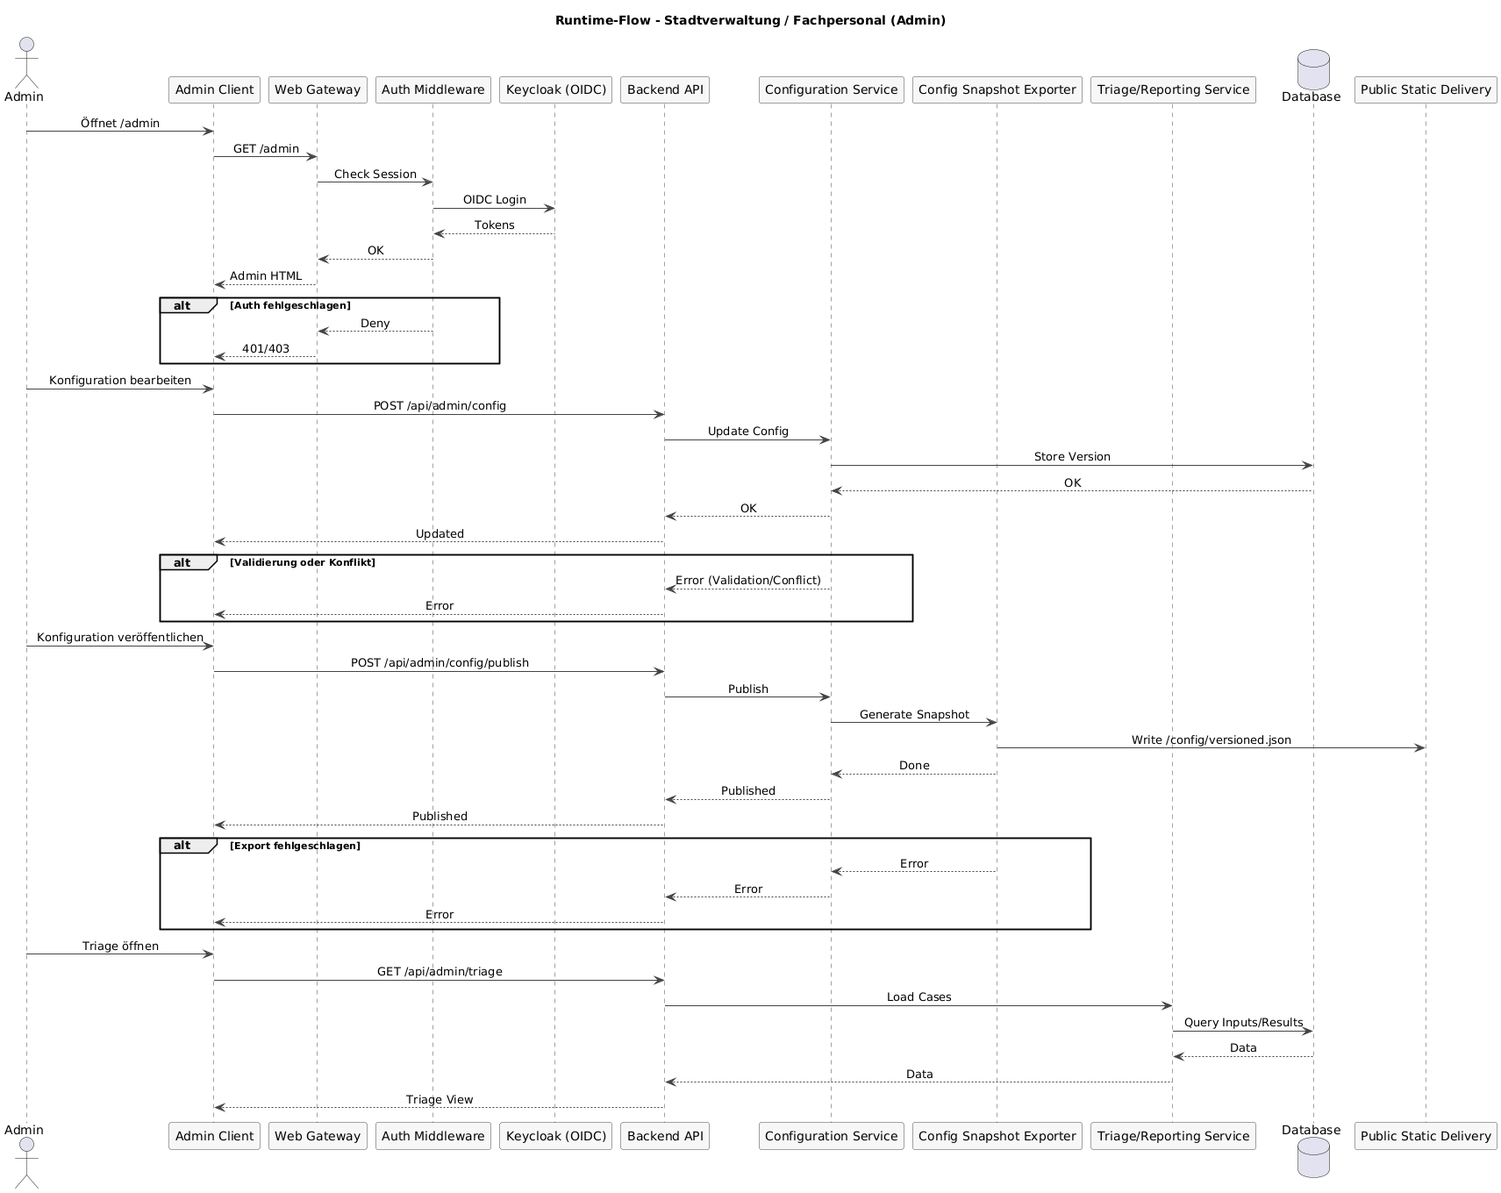
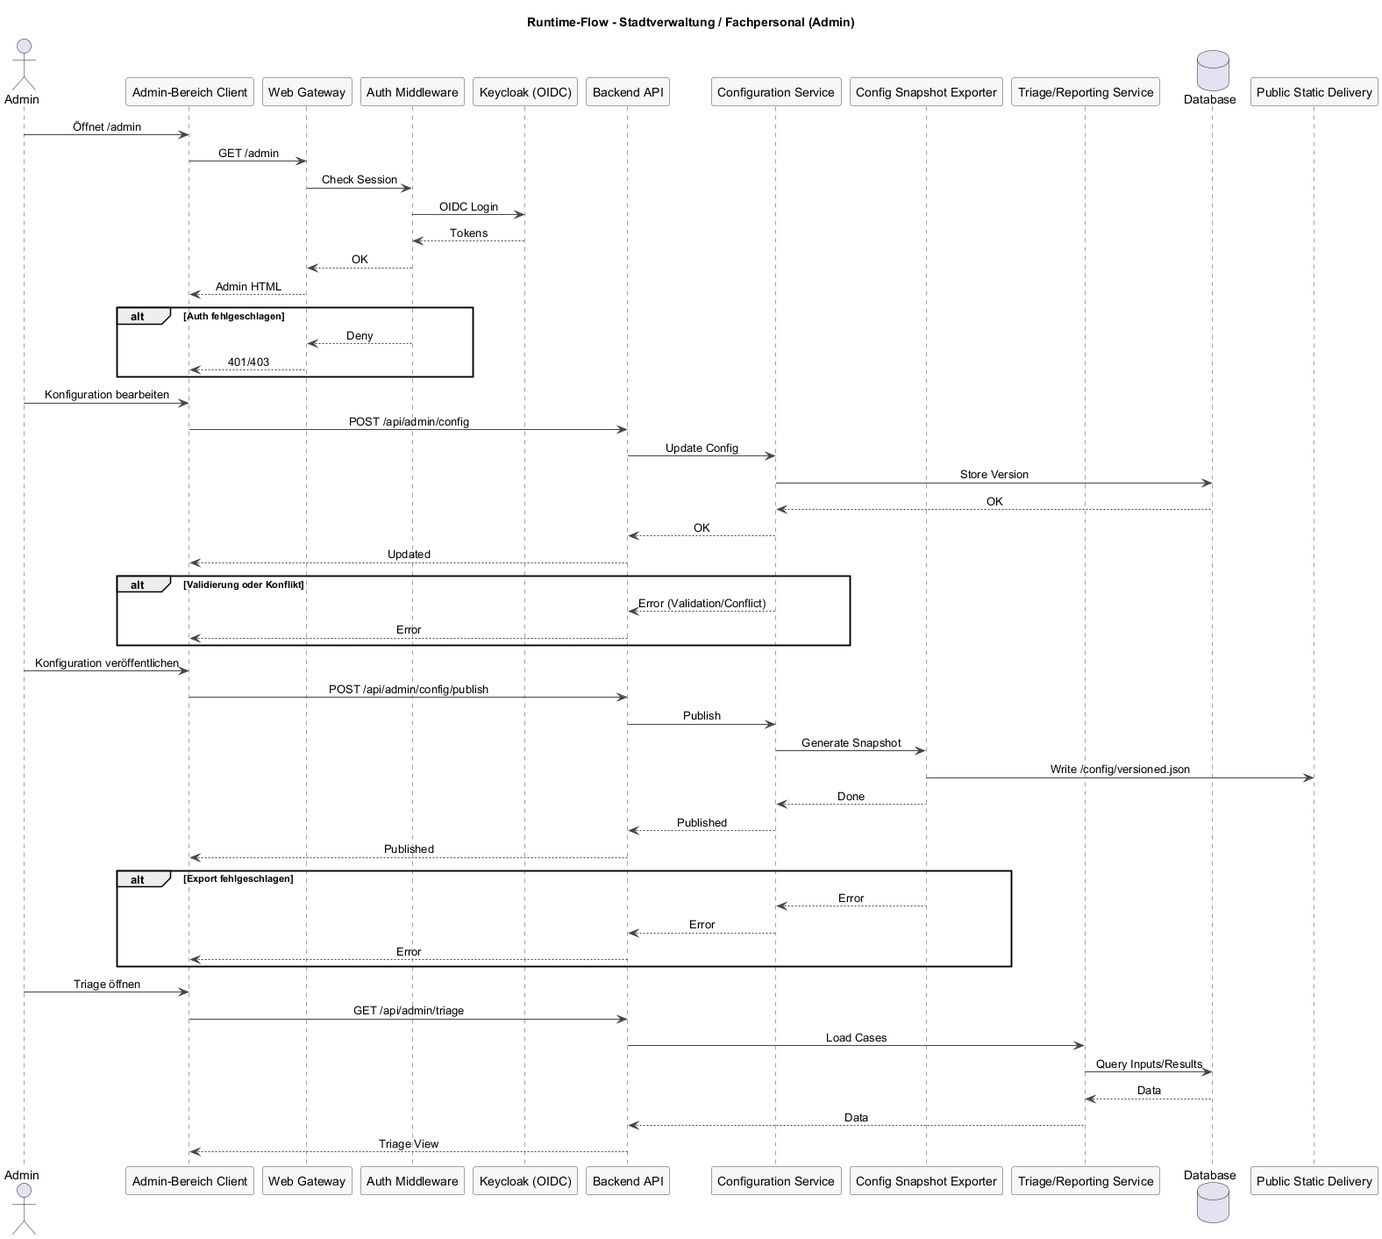
removed mentions of step model input; changed admin ui references to admin area; general clean-up

diff --git a/docs/requirements/03-technical-requirements.md b/docs/requirements/03-technical-requirements.md
@@ -46,10 +46,10 @@ Zur Laufzeit darf keine serverseitige Renderlogik erforderlich sein.
 Das Frontend muss mindestens zwei klar getrennte UI-Bereiche bereitstellen:
 
 - einen öffentlichen Bürger-Client
-- eine administrative Oberfläche für Stadtverwaltung / Fachpersonal
+- einen administrativen Bereich für Stadtverwaltung / Fachpersonal
 
 **TA-09**  
-Der HTML-Code der administrativen Oberfläche darf erst nach erfolgreicher Authentifizierung ausgeliefert werden.
+Der HTML-Code des administrativen Bereichs darf erst nach erfolgreicher Authentifizierung ausgeliefert werden.
 
 ---
 
@@ -360,7 +360,7 @@ Der Consent-Status (Datenschutz/Cookies) muss als technische Voraussetzung für 
 Jeder Nutzerdatensatz muss einen Status tragen (neu, in Prüfung, freigegeben, unplausibel) und die Statusänderung muss mit Zeitstempel und Benutzerkennung im Audit-Log protokolliert werden.
 
 **TA-82**  
-Die Admin-UI muss eine gruppierte Ansicht pro Gebäude bereitstellen, inkl. Vergleich mehrerer Datensätze.
+Der Admin-Bereich muss eine gruppierte Ansicht pro Gebäude bereitstellen, inkl. Vergleich mehrerer Datensätze.
 
 **TA-83**  
 Exporte für Verwaltung/Wärmeplanung müssen mindestens als JSON und CSV bereitgestellt werden und Filterkriterien berücksichtigen.
@@ -381,17 +381,19 @@ Am oberen Ende des Spektrums muessen Szenario-Berechnungen fuer Einzelmassnahmen
 **TA-87**  
 Live-Ergebnisse sollen nach Eingabeänderungen ohne expliziten Berechnungs-Button aktualisiert werden; die Reaktionszeit muss für interaktive Nutzung geeignet sein.
 
-### Input-Matrix (Referenzpunkte im Spektrum)
+### Eingabefelder entlang des Spektrums
 
-| Referenzpunkt | Pflichtangaben                                        | Optionale Angaben                                                                                                                                            |
-| ----- | ----------------------------------------------------- | ------------------------------------------------------------------------------------------------------------------------------------------------------------ |
-| Minimum     | keine                                                 | keine                                                                                                                                                        |
-| Niedrig     | Baujahr                                               | Energietraeger, Jahresverbrauch oder Kosten, Warmwasser elektrisch (Ja/Nein), Personenanzahl (Klassen)                                                        |
-| Mittel      | Bauteilzustaende je Dach/Aussenwand/Fenster/Kellerdecke | Lueftungsart, Heizflaechenart, Erzeugerart, Baujahre je Bauteil                                                                                                |
-| Hoch        | Ueberschreiben von Defaults je Bauteil                 | Daemmung ja/nein, Sanierungsjahr, Verglasungsart/Rahmen, Luftdichtheit, Vorlauftemperatur, Erzeugerleistung, Umwaelzpumpe, Regelprinzip, technische Ausfuehrung |
-| Maximum     | Auswahl Sanierungsmassnahmen                           | Kombinationen, Budget, Foerderlogik (optional)                                                                                                                |
+| Eingabebereich | Pflichtangaben | Optionale Angaben |
+| ----- | ----- | ----- |
+| Ohne Nutzereingabe | keine | keine |
+| Grundangaben | Baujahr | Energietraeger, Jahresverbrauch oder Kosten, Warmwasser elektrisch (Ja/Nein), Personenanzahl (Klassen) |
+| Bauteile und Anlage | Bauteilzustaende je Dach/Aussenwand/Fenster/Kellerdecke | Heizflaechenart, Erzeugerart, Baujahre je Bauteil |
+| Detaillierung | keine zusaetzlichen globalen Pflichtangaben | Ueberschreiben von Defaults je Bauteil, Daemmung ja/nein, Sanierungsjahr, Verglasungsart/Rahmen, Vorlauftemperatur, Erzeugerleistung, Umwaelzpumpe, Regelprinzip, technische Ausfuehrung |
+| Szenarien und Kombinationen | Auswahl mindestens einer Sanierungsmassnahme | Kombinationen, Budget, Foerderlogik (optional) |
 
-Hinweis: Eingaben sind als automatisch/manuell/geschätzt zu markieren; Validierungen erfolgen stufenspezifisch.
+Hinweis: Die genannten Eingaben bilden keine festen Stufen. Sie koennen entlang eines kontinuierlichen Spektrums bedarfsorientiert kombiniert werden.
+Hinweis: Luftdichtheit wird nicht direkt durch Nutzer eingegeben, sondern aus allgemeinen Annahmen (Katalogwerte und Baualter) referenziert.
+Hinweis: Eingaben sind als automatisch/manuell/geschätzt zu markieren; Validierungen erfolgen eingabetiefenspezifisch.
 
 ---
 
@@ -401,7 +403,7 @@ Hinweis: Eingaben sind als automatisch/manuell/geschätzt zu markieren; Validier
 Die Eingabemaske muss die Heizungsregelung als auswählbare Kategorie unterstützen (Raumtemperaturregelung, witterungsgeführte Regelung, Differenzregelung).
 
 **TA-89**  
-Bei hoeherem Eingabegrad muessen optionale Anlagenparameter aufgenommen werden koennen (Vorlauftemperatur, Erzeugerleistung, Umwaelzpumpe, Heizflaechen, Regelprinzip, technische Ausfuehrung).
+Mit zunehmender manueller Eingabetiefe muessen optionale Anlagenparameter aufgenommen werden koennen (Vorlauftemperatur, Erzeugerleistung, Umwaelzpumpe, Heizflaechen, Regelprinzip, technische Ausfuehrung).
 
 ---
 

diff --git a/docs/system/02-user-journey-ux.md b/docs/system/02-user-journey-ux.md
@@ -62,7 +62,7 @@ Herr Meier ist Vermieter eines Mehrfamilienhauses aus den 1970er Jahren. Die Hei
 ## Chancen und UX-Ansätze
 
 - Niederschwelliger Einstieg mit klarer „So funktioniert’s“-Erklärung.
-- Sichtbare Sofortergebnisse (Einsparungen) in der Basisstufe.
+- Sichtbare Sofortergebnisse (Einsparungen) bereits ohne oder mit wenigen manuellen Eingaben.
 - Kennzeichnung der Datenherkunft: automatisch, manuell, geschätzt.
 - Priorisierung der wichtigsten Daten, reduzierte Komplexität.
 - Empfehlung „beste Maßnahme für Budget X“.
@@ -75,19 +75,18 @@ Herr Meier ist Vermieter eines Mehrfamilienhauses aus den 1970er Jahren. Die Hei
 ## Eingabetiefe (fachliche UX-Sicht)
 
 Die Eingaben bewegen sich auf einem kontinuierlichen Spektrum von "keine Nutzereingabe" bis
-"vollstaendig durch Nutzer definiert". Zur Orientierung koennen Referenzpunkte dienen:
-Minimum (ohne Nutzereingaben): Vorbelegung auf Basis LOD2, Baualtersklasse und Standardannahmen, damit keine „leere Huelle“ entsteht.  
-Niedrig (Quick-Start): Wenige Eingaben (z.B. Baujahr als Pflichtfeld), schnelle Ergebnisse/Benchmark.  
-Mittel (Verbesserung): Bauteil- und Anlagenebene, Zustaende je Bauteil, Lueftungsart abfragbar.  
-Hoch (Expertenmodus): Ueberschreiben von Defaults (z.B. Daemmung, Fensterdetails), detaillierte Eingaben.  
-Maximum (Sanierungsszenarien): Auswahl von Einzelmassnahmen oder Kombinationen, Ergebnisvergleich vorher/nachher.
+"vollstaendig durch Nutzer definiert". Es gibt keine festen Stufen:
+- Ohne Nutzereingabe werden Werte auf Basis von LOD2, Baualtersklasse und Standardannahmen vorbelegt.
+- Mit jeder zusaetzlichen manuellen Eingabe werden die Ergebnisse praeziser und nachvollziehbarer.
+- Bauteil-, Anlagen- und Nutzungsangaben koennen schrittweise ergaenzt oder ueberschrieben werden.
+- Bei umfassender manueller Eingabe sind detaillierte Varianten und Kombinationen von Massnahmen vergleichbar.
 
 ---
 
-## Input-Matrix als Referenzpunkte im Spektrum
+## Eingabeumfang im Spektrum
 
-Die detaillierte Eingabematrix inkl. Pflicht-/Optionaleingaben ist in den Anforderungen beschrieben:
-`docs/requirements/02-nonfunctional-requirements.md` und `docs/requirements/03-functional-requirements.md`.
+Die detaillierten Eingabefelder inkl. Pflicht-/Optionaleingaben entlang des Spektrums sind in den Anforderungen beschrieben:
+`docs/requirements/02-functional-requirements.md` und `docs/requirements/03-technical-requirements.md`.
 
 Hinweis: Alle Eingaben sind als „automatisch“, „manuell“ oder „geschätzt“ zu kennzeichnen.
 
@@ -98,7 +97,7 @@ Hinweis: Alle Eingaben sind als „automatisch“, „manuell“ oder „geschä
 - Gebäude & Grunddaten (Adresse, Gebäudetyp, Wohnfläche, Baualtersklasse)
 - Eingabetiefe & Eingabedetails (kontinuierliches Spektrum inkl. Erklaerung)
 - Gebäudehülle (Dach, Außenwand, Fenster, Kellerdecke)
-- Lüftung (Luftdichtheit/Alter, Lüftungsart)
+- Lüftung (Luftdichtheit/Alter)
 - Warmwasser & Nutzung (pauschal vs. Personenanzahl)
 - Anlagentechnik (Energieträger, Alter, Erzeugerart)
 - Anlagentechnik (Detailgrad entlang des Spektrums: Regelungsart, Vorlauftemperatur, Erzeugerleistung, Heizflaechen)
@@ -112,19 +111,19 @@ Hinweis: Alle Eingaben sind als „automatisch“, „manuell“ oder „geschä
 
 - Automatisch abgeleitet: LOD2-Geometrie, Baualtersklassen, Standardannahmen.
 - Manuell: Nutzereingaben zu Bauteilen, Anlagen und Kostenparametern.
-- Geschätzt: Werte aus Normtabellen/Typologien, wenn keine Detailangaben vorliegen.
+- Geschätzt: Werte aus Katalogen/Normtabellen/Typologien, die anhand der aktuellen Eingaben referenziert werden; dies kann sowohl automatisch abgeleitete als auch manuell angepasste Eingaben betreffen.
 
 ---
 
 ## Baualtersklassen
 
-Das Raster der Baualtersklassen ist in den fachlichen Anforderungen festgelegt (siehe `docs/requirements/02-nonfunctional-requirements.md`, FA-98).
+Das Raster der Baualtersklassen ist in den fachlichen Anforderungen festgelegt (siehe `docs/requirements/02-functional-requirements.md`, FA-96).
 
 ---
 
 ## Auswahlbeispiele (UI)
 
-- Lüftungsart: Fensterlüftung, Lüftungsanlage ohne WRG, Lüftungsanlage mit WRG, „weiß ich nicht“.
+- Luftdichtheit (Lüftung): wird über allgemeine Annahmen (Katalog, Baualter) referenziert; keine direkte Nutzereingabe.
 - Sanierungsmaßnahmen: Dach, Außenwand, Fenster, Kellerdecke, Heizung, PV, Geothermie, Energiespeicher.
 - Regelungsart (Heizung): Raumtemperaturregelung, witterungsgeführte Regelung, Differenzregelung.
 - Regelprinzip: stetig, 2‑Punkt/3‑Punkt.
@@ -178,7 +177,7 @@ Frau Städter arbeitet in der Stadtverwaltung und ist für die Pflege und Qualit
 
 | Schritt | Aktion | Systemantwort |
 | --- | --- | --- |
-| Login | Admin-Seite öffnen, anmelden | Rollenprüfung, Admin-UI |
+| Login | Admin-Seite öffnen, anmelden | Rollenprüfung, Admin-Bereich |
 | Übersicht | Liste/Karte der Eingaben | Filter, Sortierung, Status |
 | Detail | Gebäudedatensätze öffnen | Vergleich mehrerer Eingaben |
 | Plausibilisierung | Datensatz prüfen | Status „in Prüfung“, Notizen |

diff --git a/docs/architecture/13-architecture-simulation-core.md b/docs/architecture/13-architecture-simulation-core.md
@@ -15,7 +15,7 @@ Der Simulationskern befindet sich noch nicht in einem finalen Stand. Inhalte und
 ## Verantwortlichkeiten
 
 - Berechnung von Energiebedarf, CO₂, Primärenergie, Kosten und Effizienzklassen.
-- Umsetzung der Simulationsstufen und Eingabelogik gemäß fachlichen Anforderungen.
+- Umsetzung der Eingabelogik entlang eines kontinuierlichen Spektrums gemäß fachlichen Anforderungen.
 - Deterministisches Verhalten bei identischer Konfiguration und Eingaben.
 
 ---
@@ -37,11 +37,10 @@ Der Simulationskern befindet sich noch nicht in einem finalen Stand. Inhalte und
 
 ## Eingabetiefe (Spektrum)
 
-- **Minimum**: keine Nutzereingaben, Vorbelegung ueber LOD2, Baualtersklasse, Standardannahmen.
-- **Niedrig**: wenige Pflichtangaben (z.B. Baujahr), schnelle Erstwerte.
-- **Mittel**: Bauteil- und Anlagenebene, einfache Qualitaetsstufen je Bauteil.
-- **Hoch**: Ueberschreiben von Defaults (z.B. Daemmung, Fensterdetails, Sanierungsjahr).
-- **Maximum**: Sanierungsszenarien (Einzelmassnahmen/Kombinationen) mit Vorher/Nachher-Vergleich.
+- Ohne Nutzereingabe erfolgt die Vorbelegung ueber LOD2, Baualtersklasse und Standardannahmen.
+- Mit jeder zusaetzlichen manuellen Eingabe steigt die inhaltliche Genauigkeit der Berechnung.
+- Bauteil-, Anlagen- und Nutzungsangaben koennen sukzessive ergaenzt oder ueberschrieben werden.
+- Bei umfassender manueller Eingabe sind detaillierte Sanierungsszenarien (Einzelmassnahmen/Kombinationen) mit Vorher/Nachher-Vergleich moeglich.
 
 ---
 
@@ -49,26 +48,23 @@ Der Simulationskern befindet sich noch nicht in einem finalen Stand. Inhalte und
 
 - Fensteranteil am Fassadenbereich: Standardannahme (z.B. 40%), wenn nicht bekannt.
 - Lüftungswärmeverlust (Bestand ohne Detailkenntnis): pauschaler Ansatz (z.B. 0,05 W/m²K).
-- Wärmebrücken: pauschaler Zuschlag auf U-Werte, stufenabhängig.
+- Wärmebrücken: pauschaler Zuschlag auf U-Werte, eingabeabhängig.
 
 ---
 
-## Lüftung (Auswahlbeispiele)
+## Lüftung (Parameterbeispiele)
 
-- Fensterlüftung (kein Lüftungssystem)
-- Lüftungsanlage ohne Wärmerückgewinnung
-- Lüftungsanlage mit Wärmerückgewinnung
-- „Weiß ich nicht“ → Standardannahme
-
-Luftdichtheit (hoher Eingabegrad): eher zugig / normal / sehr dicht / „weiss ich nicht“.
+- Luftdichtheit wird als referenzierter Parameter aus Katalogwerten und Baualter modelliert (keine direkte Nutzereingabe).
+- Fuer die Berechnung koennen interne Auspraegungen wie eher zugig / normal / sehr dicht verwendet werden.
 
 ---
 
 ## Anlagentechnik (Detailgrad)
 
-- **Niedrig**: Baujahr + grundlegender Energietraeger, grobe Vorbelegung der Anlage.
-- **Mittel**: Baujahr + Erzeugerart, Heizflaechenart, grundlegende Regelungsart.
-- **Hoch**: optionale Detailparameter wie Vorlauftemperatur, Erzeugerleistung, Umwaelzpumpe, Regelprinzip, technische Ausfuehrung.
+- Ohne manuelle Eingaben arbeitet das System mit konfigurierten Standardannahmen.
+- Mit manuellen Grundangaben (z.B. Baujahr, Energietraeger) wird die Anlage grob vorbelegt.
+- Mit weiterem Detaillierungsgrad koennen Erzeugerart, Heizflaechenart und Regelungsart erfasst werden.
+- Optional sind weitere Detailparameter wie Vorlauftemperatur, Erzeugerleistung, Umwaelzpumpe, Regelprinzip und technische Ausfuehrung erfassbar.
 
 Regelungsarten (Auswahl): Raumtemperaturregelung, witterungsgeführte Regelung, Differenzregelung.  
 Regelprinzip: stetig, 2‑Punkt/3‑Punkt.  

diff --git a/docs/system/03-security-concept.md b/docs/system/03-security-concept.md
@@ -30,7 +30,7 @@ Dieses Kapitel beschreibt das Sicherheitskonzept des Digitaler Energy Zwilling (
 - SYS.1.1 Allgemeiner Server.
 - NET.1.1 Netzarchitektur und -design.
 - NET.3.1 Netzkomponenten.
-- OPS.1.1.3 Patch- und Ã„nderungsmanagement.
+- OPS.1.1.3 Patch- und Änderungsmanagement.
 - CON.8 Software-Entwicklung.
 
 ---
@@ -43,7 +43,7 @@ Dieses Kapitel beschreibt das Sicherheitskonzept des Digitaler Energy Zwilling (
 - **SYS.1.1 Allgemeiner Server**: Container mit Non-Root, minimale Capabilities, Patch-Management, Secrets-Management.
 - **NET.1.1 Netzarchitektur und -design**: Backend nicht direkt aus dem Internet erreichbar, Zugriff über API-Management/Reverse Proxy, Netzwerksegmentierung.
 - **NET.3.1 Netzkomponenten**: Standardisierte Schnittstellen, klare Netzgrenzen, Monitoring der Schnittstellen.
-- **OPS.1.1.3 Patch- und Ã„nderungsmanagement**: Regelmäßige Updates, dokumentierte Ã„nderungen, Rollback-Strategien.
+- **OPS.1.1.3 Patch- und Änderungsmanagement**: Regelmäßige Updates, dokumentierte Änderungen, Rollback-Strategien.
 - **CON.8 Software-Entwicklung**: SDLC nach OWASP, Code-Reviews, Security-Scanning, Penetrationstest vor Go-Live.
 
 ---
@@ -61,14 +61,14 @@ Dieses Kapitel beschreibt das Sicherheitskonzept des Digitaler Energy Zwilling (
 
 - Admin-Zugriff ausschließlich über OIDC (Keycloak).
 - Rollenbasierte Freigaben für Systempflege und Triage.
-- Ã–ffentliche Schreibzugriffe nur mit Schutzmechanismen (Altcha, Rate Limiting).
+- Öffentliche Schreibzugriffe nur mit Schutzmechanismen (Altcha, Rate Limiting).
 
 ---
 
 **Daten- und Datenschutzkonzept**
 
 - Keine personenbezogene Pflichtdatenerfassung im Bürgerbereich.
-- Optionale Ãœbermittlung von Eingaben, stets explizit ausgelöst.
+- Optionale Übermittlung von Eingaben, stets explizit ausgelöst.
 - Session-Cookies für temporäre Zustände, Consent für optionales Tracking.
 - Löschprozess mit eindeutiger Identifikation (z.B. Link/QR im PDF).
 

diff --git a/docs/system/01-system-overview.md b/docs/system/01-system-overview.md
@@ -32,12 +32,12 @@ Der DEZ richtet sich nicht an Energieberater oder Förderstellen und liefert kei
 - Anzeige von Solarpotenzialen (PV) und Geothermiepotenzialen
 - Einfache Simulationen fuer Sanierungsmassnahmen mit variabler Eingabetiefe (kontinuierliches Spektrum)
 - Anonymisierte Datenerfassung (z.B. Personenanzahl als Klassen 1–5 bzw. >5)
-- Eingabetiefe-Spektrum von "keine Nutzereingabe" bis "vollstaendig durch Nutzer definiert" (z.B. Quick-Start bis detaillierte Sanierungsszenarien)
+- Eingabetiefe-Spektrum von "keine Nutzereingabe" bis "vollstaendig durch Nutzer definiert" (von reinen Basisannahmen bis vollstaendig manuell angepassten Angaben)
 - Keine Registrierung; Session-Cookies für temporäre Zustände, optionale lokale Speicherung im Browser
 - Nutzung ohne verpflichtende Datenübermittlung; Export nur auf Wunsch
 
 ### Stadtverwaltung / Fachpersonal
-- Zugriff über geschützte Admin-Oberfläche
+- Zugriff über geschützten Admin-Bereich
 - Pflege und Veröffentlichung von Simulationskonfigurationen
 - Sichtung, Triage und Qualitätssicherung von Nutzereingaben
 - Auswertung für Quartiersanalyse und interne Berichte
@@ -74,7 +74,7 @@ Der DEZ ist kein:
 
 Das System besteht aus:
 - einem öffentlichen 3D-Client für Visualisierung und Simulation
-- einer administrativen Oberfläche für Fachpersonal
+- einem administrativen Bereich für Fachpersonal
 - einem Simulationskern als JavaScript-Modul (clientseitig, optional serverseitig)
 - einem Backend für Authentifizierung, Konfiguration, Persistenz und Triage
 - einer Offline-Datenpipeline zur Vorverarbeitung von Geodaten

diff --git a/docs/architecture/09-runtime-flows-ops-view.md b/docs/architecture/09-runtime-flows-ops-view.md
@@ -20,7 +20,7 @@ Quelle: `raw/runtime-flow-public.puml`
 
 **Stadtverwaltung / Fachpersonal-Flow**  
 Admins authentifizieren sich via OIDC, bearbeiten Konfigurationen, veröffentlichen Versionen und triagieren eingegangene Nutzereingaben.  
-Beteiligte Komponenten: Web Gateway, Admin UI, Auth Middleware, Configuration Service, Triage/Reporting Service, Database.  
+Beteiligte Komponenten: Web Gateway, Admin-Bereich, Auth Middleware, Configuration Service, Triage/Reporting Service, Database.  
 Fehlerpfade: Auth fehlgeschlagen, Konflikte bei Konfigurationsversionen, Validierungsfehler, fehlende Berechtigungen.
 
 ![runtime-flow-admin.png](./attachments/runtime-flow-admin.png)
@@ -29,7 +29,7 @@ Quelle: `raw/runtime-flow-admin.puml`
 
 **Admin Triage-Flow (Detail)**  
 Admins sehen gruppierte Eingaben je Gebäude, vergleichen Datensätze, markieren plausible Einträge und exportieren Daten für die Wärmeplanung.  
-Beteiligte Komponenten: Admin UI, Backend API, Triage Service, Database.  
+Beteiligte Komponenten: Admin-Bereich, Backend API, Triage Service, Database.  
 Fehlerpfade: ungültige Filter, fehlende Berechtigung, konkurrierende Status-Updates.
 
 ![runtime-flow-admin-triage.png](./attachments/runtime-flow-admin-triage.png)

diff --git a/docs/architecture/06-architecture-c4-container.md b/docs/architecture/06-architecture-c4-container.md
@@ -67,7 +67,7 @@ Aufgaben:
 
 Das Frontend besteht fachlich aus:
 - einem öffentlichen Client für Bürger (Eigentümer/Vermieter)
-- einer administrativen Oberfläche für Stadtverwaltung / Fachpersonal
+- einem administrativen Bereich für Stadtverwaltung / Fachpersonal
 
 Die Generierung erfolgt zur Build-Zeit, zur Laufzeit existiert keine serverseitige Renderlogik.
 
@@ -149,7 +149,7 @@ Die Pipeline wird unabhängig vom Betrieb des Live-Systems ausgeführt.
   - dem Tiles Gateway
   - optional dem Backend (z.B. zur Speicherung von Nutzereingaben)
 
-- Die Admin-Oberfläche (Stadtverwaltung / Fachpersonal) kommuniziert ausschließlich über das Backend.
+- Der Admin-Bereich (Stadtverwaltung / Fachpersonal) kommuniziert ausschließlich über das Backend.
 
 - Das Backend greift auf:
   - die Datenbank

diff --git a/docs/architecture/08-data-model-api-view.md b/docs/architecture/08-data-model-api-view.md
@@ -38,7 +38,7 @@ abgeleitet. Es trennt **statische Potenzialdaten** (3D Tiles, offline) von
 
 - **Grunddaten**: Baujahr/Baualtersklasse, Gebäudetyp, Wohnfläche, Wohneinheiten, Personenanzahl.
 - **Gebäudehülle**: Dach, Außenwand, Fenster, Kellerdecke inkl. Zustand/Sanierungsjahr und Dämmung.
-- **Lüftung**: Lüftungsart, Luftdichtheit (optional).
+- **Lüftung**: Luftdichtheit als referenzierter Parameter aus Katalogwerten und Baualter (keine direkte Nutzereingabe).
 - **Warmwasser & Nutzung**: pauschal vs. personenbasiert.
 - **Anlagentechnik**: Energieträger, Erzeugerart, Heizflächenart, Anlagenalter, Regelungsart; optional Vorlauftemperatur, Erzeugerleistung, Umwälzpumpe, Regelprinzip, technische Ausführung.
 - **Kosten/Preise**: Energiepreis, Stromart, Jahresverbrauch (optional).

diff --git a/docs/architecture/04-architecture-overview.md b/docs/architecture/04-architecture-overview.md
@@ -45,9 +45,9 @@ Eine serverseitige Ausführung der Simulation ist optional vorgesehen, z.B. für
 
 Die Anwendung unterscheidet strikt zwischen:
 - einem **öffentlichen Client** für Bürger (Eigentümer/Vermieter)
-- einer **administrativen Oberfläche** für Stadtverwaltung / Fachpersonal
+- einem **administrativen Bereich** für Stadtverwaltung / Fachpersonal
 
-Die Admin-Oberfläche wird **serverseitig geschützt** und erst nach erfolgreicher Authentifizierung ausgeliefert.  
+Der Admin-Bereich wird **serverseitig geschützt** und erst nach erfolgreicher Authentifizierung ausgeliefert.  
 Der öffentliche Client ist jederzeit ohne Anmeldung erreichbar.
 
 Diese Trennung erfolgt nicht nur logisch, sondern auch technisch auf Ebene der HTML-Auslieferung.

diff --git a/docs/architecture/05-architecture-c4-context.md b/docs/architecture/05-architecture-c4-context.md
@@ -24,7 +24,7 @@ Quelle: `raw/c4-context.puml`
 ## Akteure und Systeme
 
 - **Bürger (Eigentümer/Vermieter)**: nutzt den öffentlichen 3D-Client zur Visualisierung und Simulation.
-- **Stadtverwaltung / Fachpersonal**: nutzt die Admin-Oberfläche zur Konfiguration und QS.
+- **Stadtverwaltung / Fachpersonal**: nutzt den Admin-Bereich zur Konfiguration und QS.
 - **Keycloak CIVITAS**: OIDC-Identity-Provider für Admin-Login (Plattformdienst innerhalb von Civitas Core).
 - **City Geo Services**: liefert Basemaps via WMS/WMTS.
 - **CityGML LOD2 Source**: Gebäudedaten für die Offline-Aufbereitung.

diff --git a/docs/README.md b/docs/README.md
@@ -27,8 +27,8 @@ Die Gliederung folgt der Nummerierung der Dateien im Ordner `docs/`.
 
 ## Anforderungen
 
-- **02** [Fachliche Anforderungen – Digitaler Energy Zwilling (DEZ)](requirements/02-nonfunctional-requirements.md)
-- **03** [Technische Anforderungen – Digitaler Energy Zwilling (DEZ)](requirements/03-functional-requirements.md)
+- **02** [Fachliche Anforderungen – Digitaler Energy Zwilling (DEZ)](requirements/02-functional-requirements.md)
+- **03** [Technische Anforderungen – Digitaler Energy Zwilling (DEZ)](requirements/03-technical-requirements.md)
 
 ## Architektur
 
